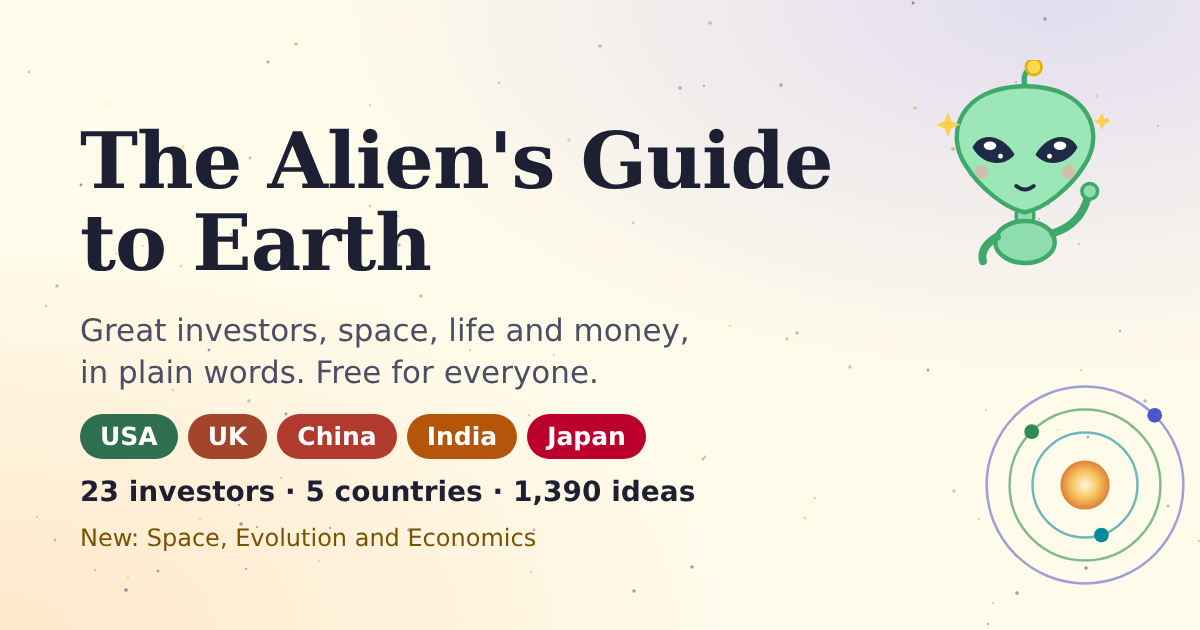
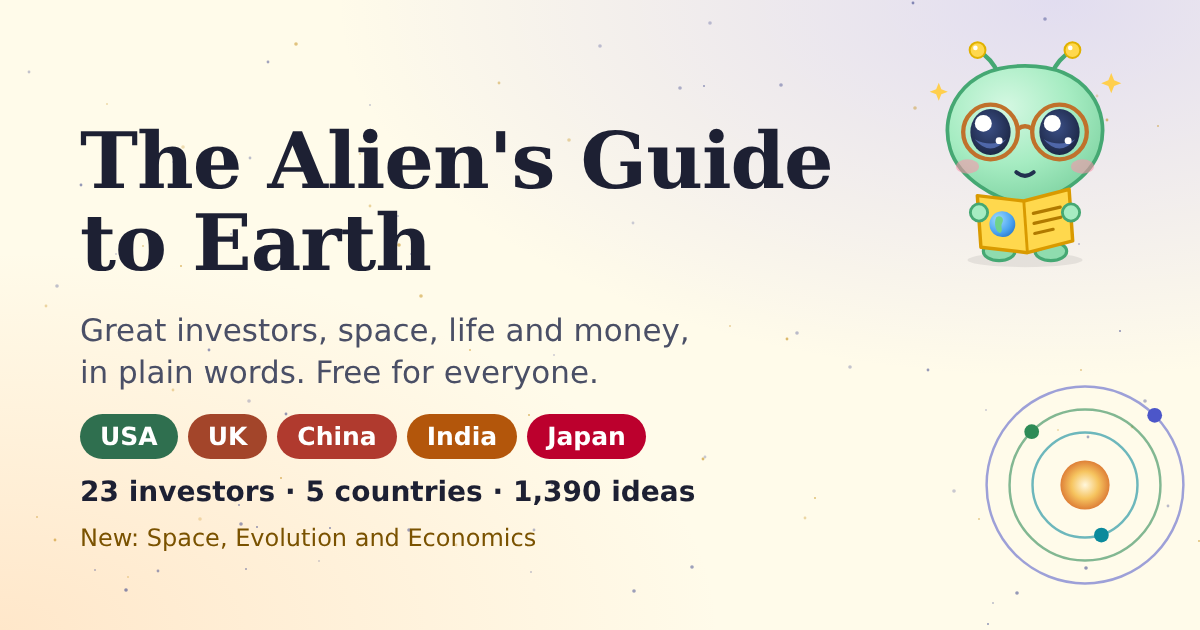
New home-page alien: reading the guide
Claude-Session: https://claude.ai/code/session_01SDsukGPZjGKtEA3pH9bdG1

Changed region(s): [[0.7708, 0.0603, 0.9558, 0.4222]]

diff --git a/index.html b/index.html
@@ -806,7 +806,7 @@ p{margin:.6em 0}
 .home{max-width:620px;margin:0 auto;padding:12vh 20px 48px;text-align:center}
 .logo{font-size:2.15rem;margin:0 0 .25em;letter-spacing:-.01em;line-height:1.1}
 .logo .earth{color:#2e6b4f}
-.alien-w{display:flex;justify-content:center;margin:-6px 0 2px}.alien{width:84px;height:84px}
+.alien-w{display:flex;justify-content:center;margin:-6px 0 2px}.alien{width:104px;height:104px}
 @media (prefers-reduced-motion:no-preference){.al-b{animation:alFloat 3.2s ease-in-out infinite}@keyframes alFloat{0%,100%{transform:translateY(0)}50%{transform:translateY(-4px)}}}
 .tagline{color:var(--muted);margin:0 auto 1.6em;max-width:30em}
 .search input{width:100%;min-height:52px;border:1px solid var(--rule);border-radius:26px;padding:0 22px;background:var(--card);font-size:1rem;outline:none;box-shadow:0 1px 3px rgba(32,33,36,.08)}
@@ -2509,7 +2509,24 @@ function homeHTML(){ const total=INV.reduce((s,pid)=>s+Object.keys(PACKS[pid].nu
   const pick=(h,ava,cls,t,sub)=>`<a class="pick" href="${h}"><span class="ava ${cls}">${ava}</span><span class="pt"><b>${t}</b><span>${sub}</span></span><span class="pgo" aria-hidden="true">›</span></a>`;
   return `<div class="home">
   <nav class="sect" aria-label="Library sections"><span class="s-inv on" aria-current="page">Investors</span><a class="s-spa" href="https://alienspacex.com/space/" target="_top" data-bg="#05060c" aria-label="Space: from the Big Bang to you">Space</a><a class="s-evo" href="https://alienspacex.com/evolution/" target="_top" data-bg="#05060c" aria-label="Evolution: from the first cell to you">Evolution</a><a class="s-eco" href="https://alienspacex.com/economics/" target="_top" data-bg="#ffffff" aria-label="Economics: the lemonade stand (new)">Economics <i>New</i></a></nav>
-  <div class="alien-w"><svg class="alien" viewBox="0 0 120 120" role="img" aria-label="A friendly green alien waving hello"><g class="al-b"><path d="M60 15 Q58 8 64 3" fill="none" stroke="#3fa86b" stroke-width="3" stroke-linecap="round"/><circle cx="65" cy="4" r="4.5" fill="#ffd84d" stroke="#e0b100" stroke-width="1.5"/><rect x="55" y="84" width="10" height="10" rx="4" fill="#8fdcae" stroke="#3fa86b" stroke-width="2"/><ellipse cx="60" cy="104" rx="17" ry="12" fill="#8fdcae" stroke="#3fa86b" stroke-width="2.5"/><path d="M44 101 Q34 107 36 115" fill="none" stroke="#3fa86b" stroke-width="4.5" stroke-linecap="round"/><path d="M76 99 Q92 94 96 78" fill="none" stroke="#3fa86b" stroke-width="4.5" stroke-linecap="round"/><circle cx="97" cy="75" r="4.5" fill="#8fdcae" stroke="#3fa86b" stroke-width="2"/><path d="M60 15 C97 15 106 42 94 60 C86 73 71 85 60 87 C49 85 34 73 26 60 C14 42 23 15 60 15 Z" fill="#9be7b8" stroke="#3fa86b" stroke-width="2.5"/><path d="M30 50 C34 41 47 42 54 54 C49 61 36 61 30 50 Z" fill="#1f2a44"/><path d="M90 50 C86 41 73 42 66 54 C71 61 84 61 90 50 Z" fill="#1f2a44"/><ellipse cx="40" cy="49" rx="3.6" ry="2.4" fill="#fff"/><ellipse cx="80" cy="49" rx="3.6" ry="2.4" fill="#fff"/><circle cx="46" cy="55" r="1.4" fill="#fff"/><circle cx="74" cy="55" r="1.4" fill="#fff"/><path d="M55 72 Q60 76 65 72" fill="none" stroke="#1f2a44" stroke-width="2.2" stroke-linecap="round"/><circle cx="35" cy="64" r="4" fill="#ff9aa2" opacity=".5"/><circle cx="85" cy="64" r="4" fill="#ff9aa2" opacity=".5"/></g><path d="M16 30 l2 5 5 2 -5 2 -2 5 -2 -5 -5 -2 5 -2z M104 30 l1.5 3.5 3.5 1.5 -3.5 1.5 -1.5 3.5 -1.5 -3.5 -3.5 -1.5 3.5 -1.5z" fill="#ffcf4d"/></svg></div>
+  <div class="alien-w"><svg class="alien" viewBox="0 0 160 160" role="img" aria-label="A cute green alien with round glasses reading a guide to Earth"><defs>
+<radialGradient id="alh" cx="38%" cy="30%" r="75%"><stop offset="0" stop-color="#d4f8e2"/><stop offset=".55" stop-color="#a6ecc2"/><stop offset="1" stop-color="#7fd3a2"/></radialGradient>
+<radialGradient id="ale" cx="45%" cy="40%" r="65%"><stop offset="0" stop-color="#3b4f86"/><stop offset="1" stop-color="#1b2542"/></radialGradient>
+<radialGradient id="alw" cx="35%" cy="30%" r="75%"><stop offset="0" stop-color="#9fdcff"/><stop offset=".7" stop-color="#4aa3f0"/><stop offset="1" stop-color="#2f7fd0"/></radialGradient>
+</defs><g class="al-b">
+<ellipse cx="80" cy="153" rx="40" ry="5" fill="#000" opacity=".07"/>
+<ellipse cx="62" cy="147" rx="11" ry="6.5" fill="#8fdcae" stroke="#45a873" stroke-width="2.2"/><ellipse cx="98" cy="147" rx="11" ry="6.5" fill="#8fdcae" stroke="#45a873" stroke-width="2.2"/>
+<ellipse cx="80" cy="128" rx="26" ry="19" fill="url(#alh)" stroke="#45a873" stroke-width="2.4"/>
+<path d="M62 24 Q56 12 48 8" fill="none" stroke="#45a873" stroke-width="3" stroke-linecap="round"/><path d="M98 24 Q104 12 112 8" fill="none" stroke="#45a873" stroke-width="3" stroke-linecap="round"/>
+<circle cx="47" cy="7" r="5.5" fill="#ffd84d" stroke="#e0b100" stroke-width="1.4"/><circle cx="113" cy="7" r="5.5" fill="#ffd84d" stroke="#e0b100" stroke-width="1.4"/><circle cx="45.5" cy="5.5" r="1.6" fill="#fff"/><circle cx="111.5" cy="5.5" r="1.6" fill="#fff"/><path d="M80 18 C124 18 140 50 132 76 C126 96 100 112 80 114 C60 112 34 96 28 76 C20 50 36 18 80 18 Z" fill="url(#alh)" stroke="#45a873" stroke-width="2.6" /><ellipse cx="56" cy="64" rx="14" ry="16" fill="url(#ale)"/><path d="M45 69 Q56 82 67 69 Q56 75 45 69 Z" fill="#6f8fe8" opacity=".55"/><circle cx="51" cy="58" r="5.9" fill="#fff"/><circle cx="62" cy="70" r="2.4" fill="#fff"/><ellipse cx="104" cy="64" rx="14" ry="16" fill="url(#ale)"/><path d="M93 69 Q104 82 115 69 Q104 75 93 69 Z" fill="#6f8fe8" opacity=".55"/><circle cx="99" cy="58" r="5.9" fill="#fff"/><circle cx="110" cy="70" r="2.4" fill="#fff"/>
+<circle cx="56" cy="64" r="19" fill="none" stroke="#c0712b" stroke-width="3"/><circle cx="104" cy="64" r="19" fill="none" stroke="#c0712b" stroke-width="3"/><path d="M75 62 Q80 58 85 62" fill="none" stroke="#c0712b" stroke-width="3"/>
+<ellipse cx="40" cy="88" rx="8" ry="5" fill="#ff8fab" opacity=".55"/><ellipse cx="120" cy="88" rx="8" ry="5" fill="#ff8fab" opacity=".55"/><path d="M74 92 Q80 97 86 92" fill="none" stroke="#22304f" stroke-width="2.8" stroke-linecap="round"/>
+<g transform="rotate(-4 80 124)"><path d="M48 106 L80 112 L112 106 L112 142 L80 148 L48 142 Z" fill="#ffd84d" stroke="#d99a00" stroke-width="2.4" stroke-linejoin="round"/><path d="M80 112 L80 148" stroke="#d99a00" stroke-width="2"/>
+<circle cx="64" cy="127" r="9" fill="url(#alw)"/><path d="M60 122 C63 120 66 123 64 126 C62 129 65 131 62 133 C59 132 58 126 60 122 Z" fill="#6fd38a"/>
+<path d="M86 121 L105 118 M86 128 L105 125 M86 135 L99 133" stroke="#b07a00" stroke-width="2.2" stroke-linecap="round"/></g>
+<circle cx="48" cy="120" r="6" fill="#a6ecc2" stroke="#45a873" stroke-width="2"/><circle cx="112" cy="120" r="6" fill="#a6ecc2" stroke="#45a873" stroke-width="2"/>
+<path transform="translate(20 36) scale(0.9)" d="M0 -7 L2 -2 L7 0 L2 2 L0 7 L-2 2 L-7 0 L-2 -2 Z" fill="#ffcf4d"/><path transform="translate(140 30) scale(1)" d="M0 -7 L2 -2 L7 0 L2 2 L0 7 L-2 2 L-7 0 L-2 -2 Z" fill="#ffcf4d"/>
+</g></svg></div>
   <h1 class="logo">The Alien&#39;s Guide<br>to <span class="earth">Earth</span></h1>
   <p class="tagline">Dear aliens: before you take over, read this. Earth's best ideas, in plain words. Free.</p>
   <div class="search"><input id="q" type="search" autocomplete="off" placeholder="Search ${total} ideas, e.g. moat" aria-label="Search the library" value="${esc(V4.q)}"></div>
